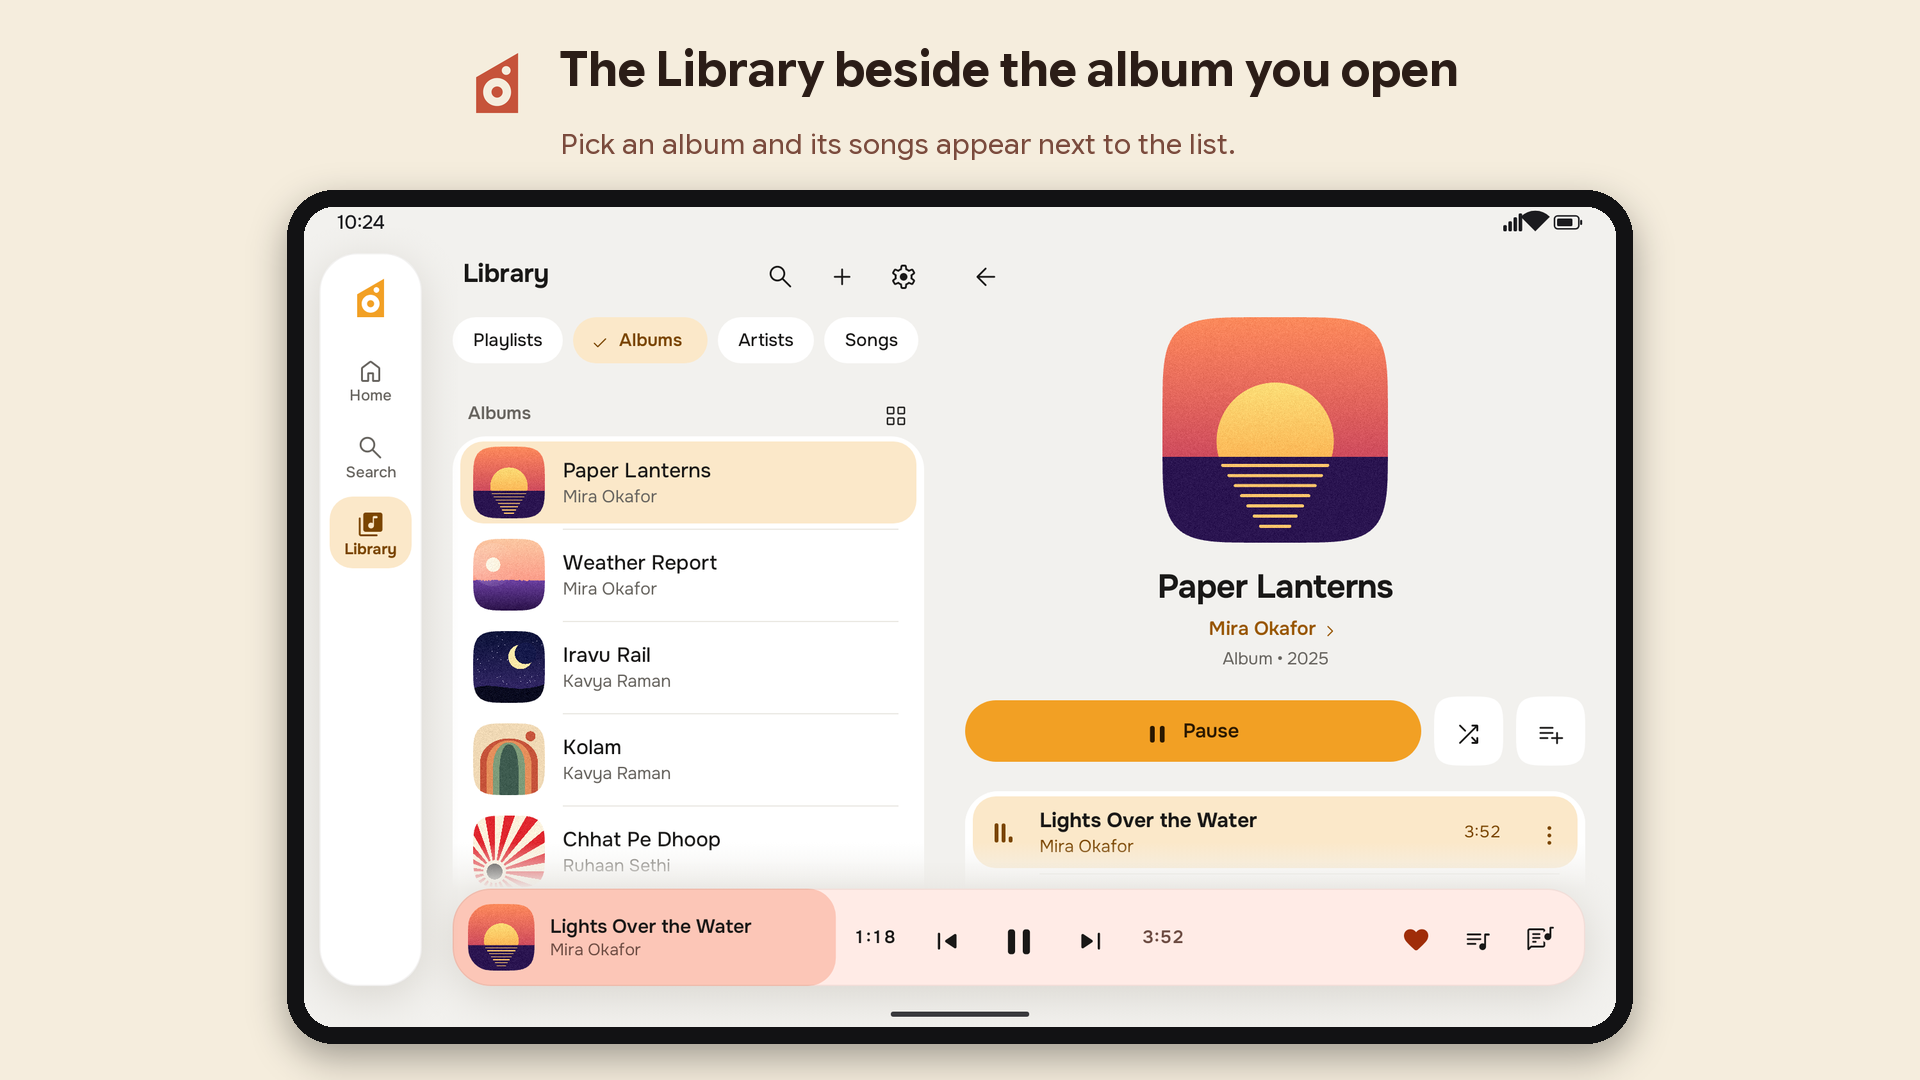
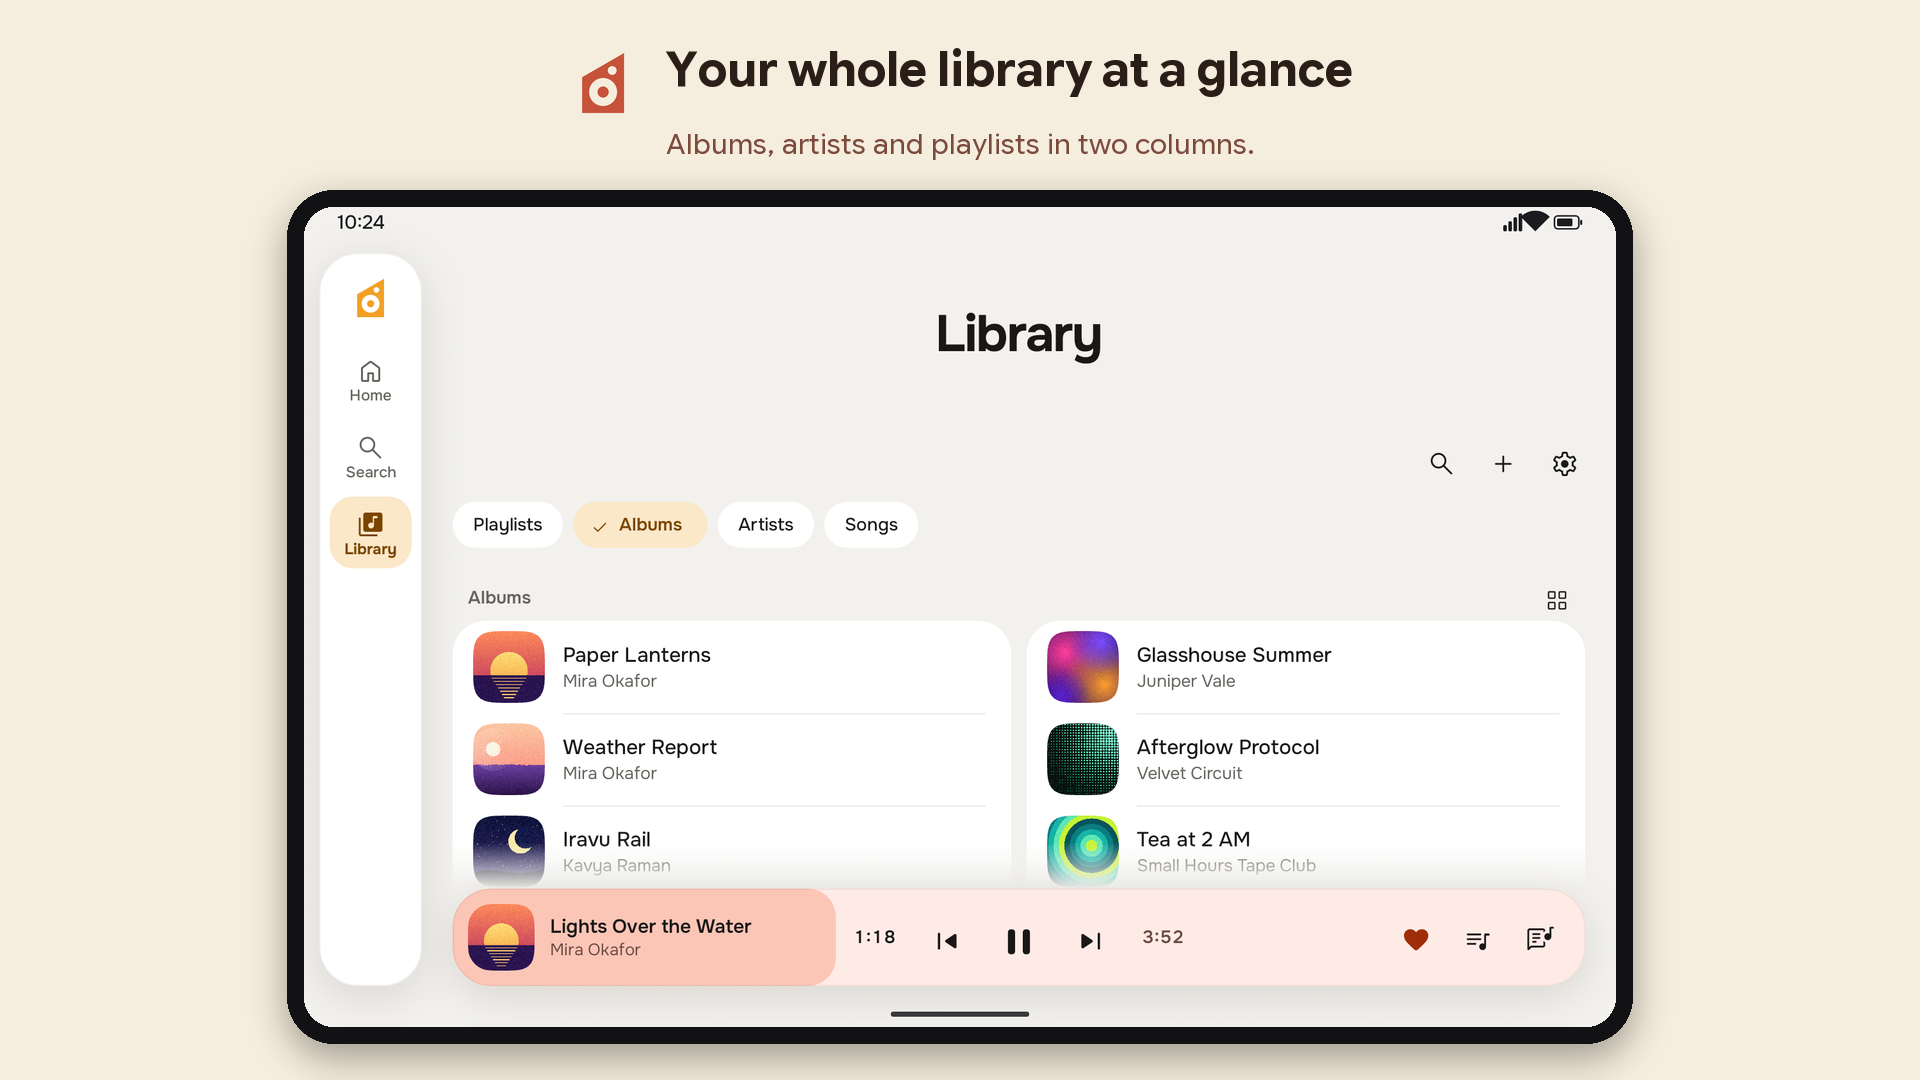
Render the 7-inch Play screenshots with the narrow tablet layouts

diff --git a/scripts/store_shots/frame_tablets.py b/scripts/store_shots/frame_tablets.py
@@ -36,7 +36,7 @@ TEN = [
 # Pause button, so those two screens come from the other style.
 SEVEN = [
     ("expressive-dark-home", "terracotta", "A rail at the side, the player along the bottom", "Turn the tablet either way and Attic keeps your place."),
-    ("comfort-light-library_albums", "cream", "The Library beside the album you open", "Pick an album and its songs appear next to the list."),
+    ("comfort-light-library_albums", "cream", "Your whole library at a glance", "Albums, artists and playlists in two columns."),
     ("expressive-dark-now_playing", "terracotta", "Now Playing beside the queue", "See what plays next without leaving the song."),
     ("comfort-dark-album", "terracotta", "Albums in two panes", "The cover and buttons stay put while the songs scroll."),
     ("expressive-light-now_playing_lyrics", "cream", "Synced lyrics beside the player", "Download them once, then read them offline."),

diff --git a/fastlane/metadata/android/en-US/images/tenInchScreenshots/README.md b/fastlane/metadata/android/en-US/images/tenInchScreenshots/README.md
@@ -31,7 +31,7 @@ styles take turns, dark screens sit on terracotta and light ones on cream.
 | # | 10-inch | 7-inch |
 |---|---|---|
 | 1 | Home, Expressive, dark | Home, Expressive, dark |
-| 2 | Library beside an open album, Comfort, light | Library beside an open album, Comfort, light |
+| 2 | Library beside an open album, Comfort, light | Library albums in two columns, Comfort, light |
 | 3 | Now Playing beside the queue, Expressive, dark | Now Playing beside the queue, Expressive, dark |
 | 4 | Now Playing beside lyrics, Comfort, dark | Album in two panes, Comfort, dark |
 | 5 | Album in two panes, Expressive, light | Now Playing beside lyrics, Expressive, light |
